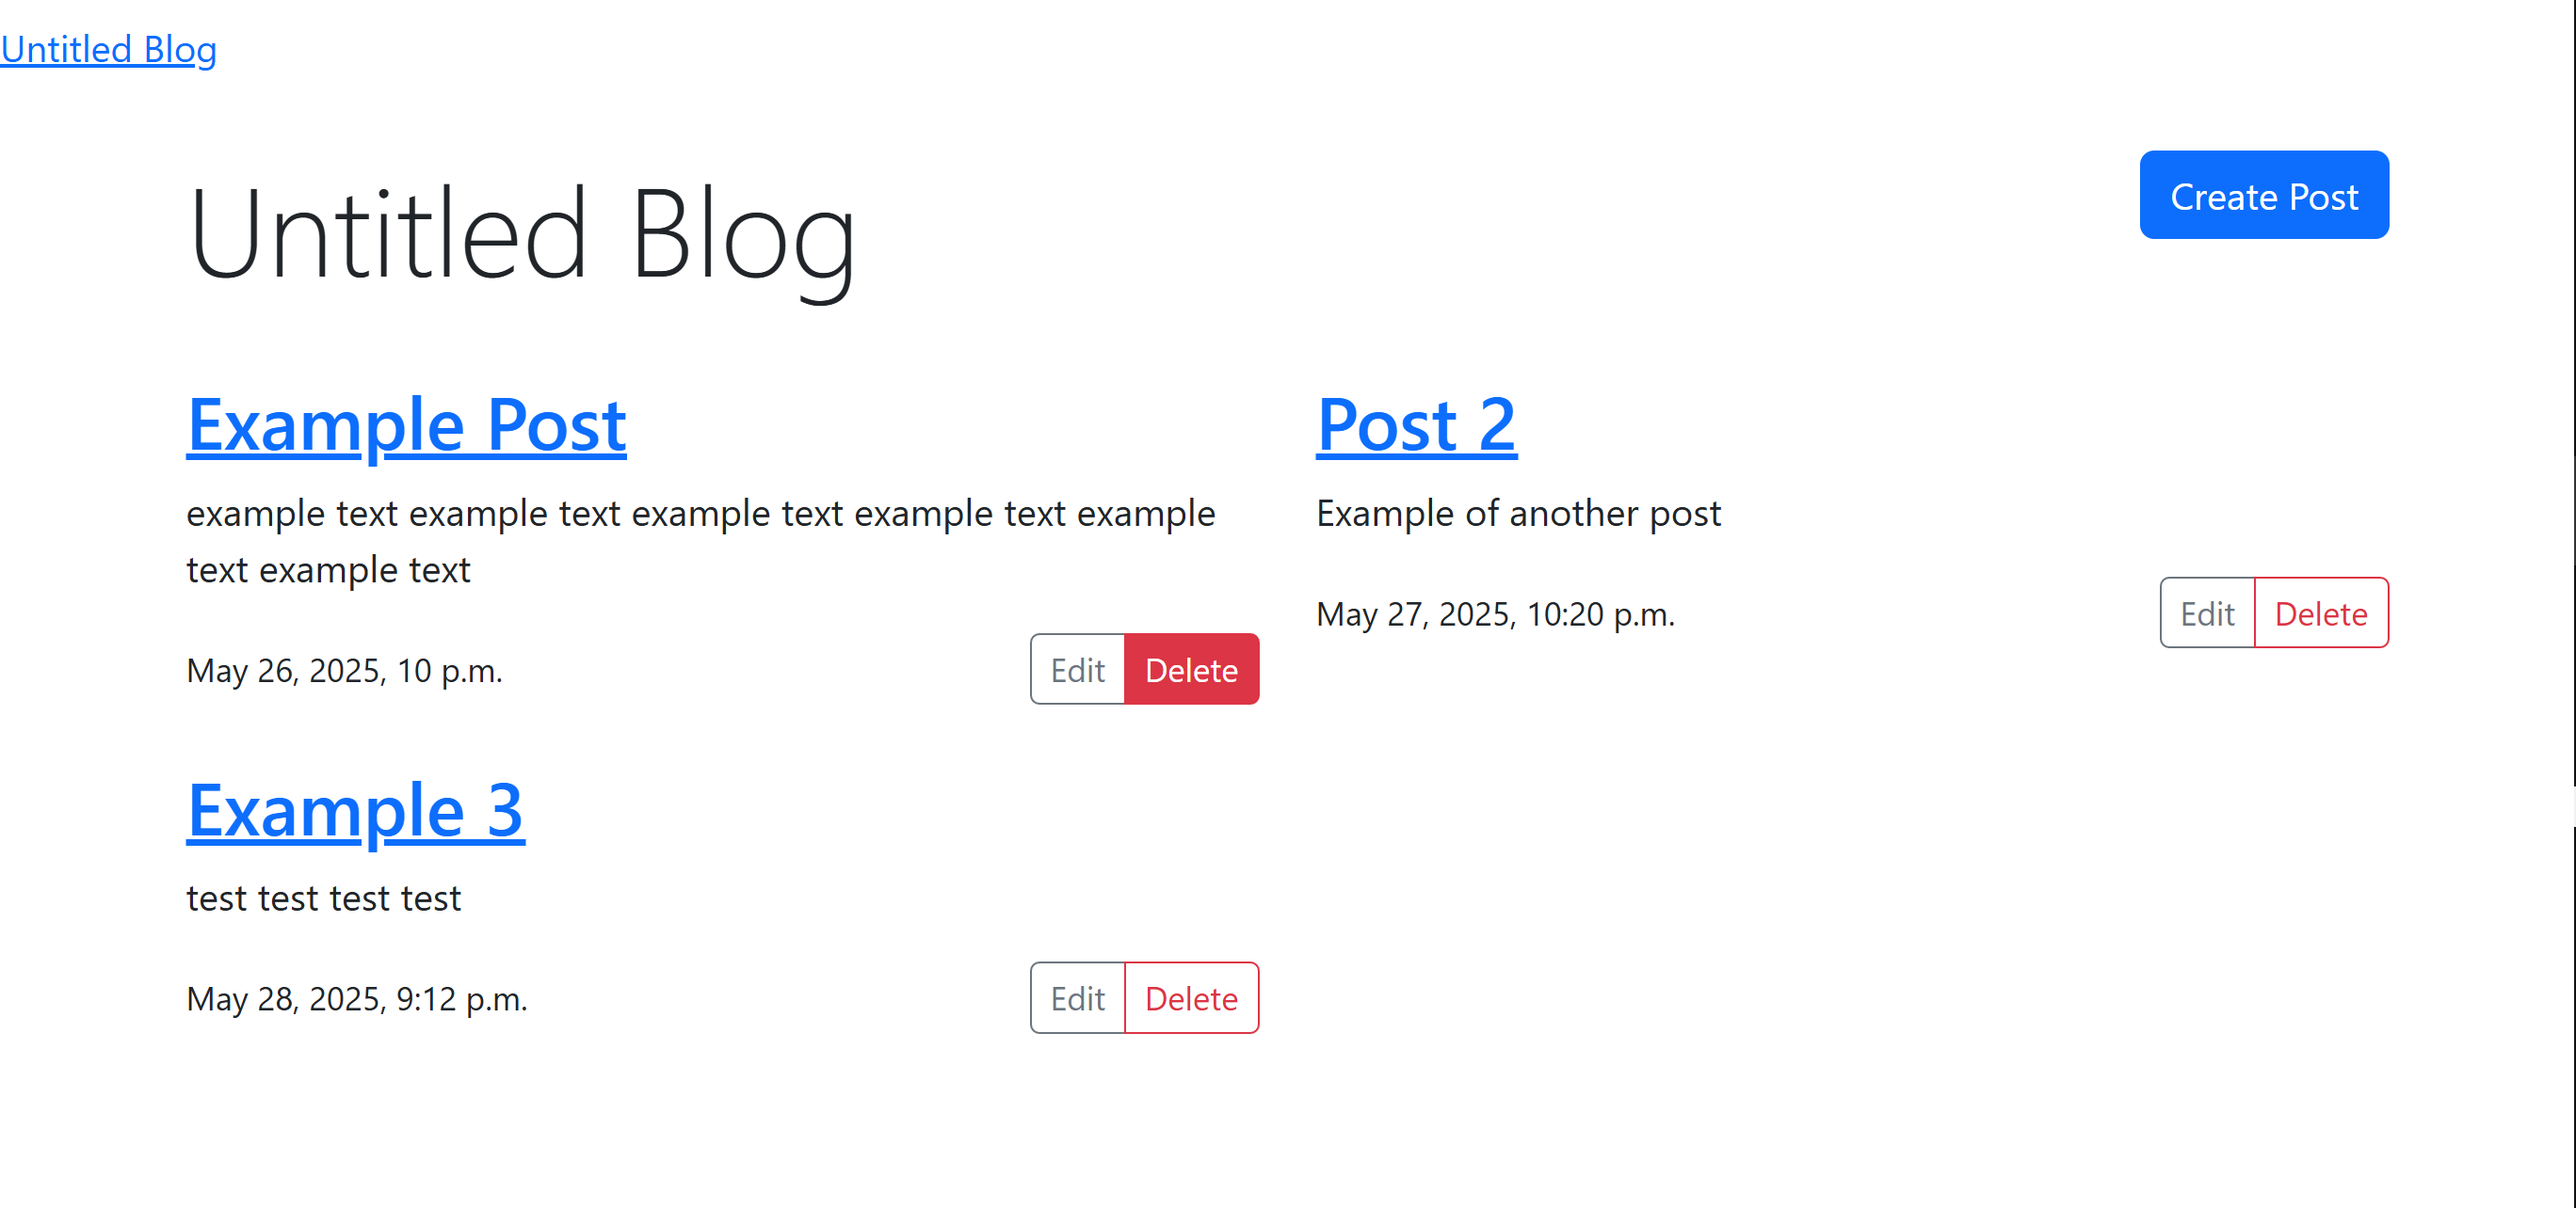
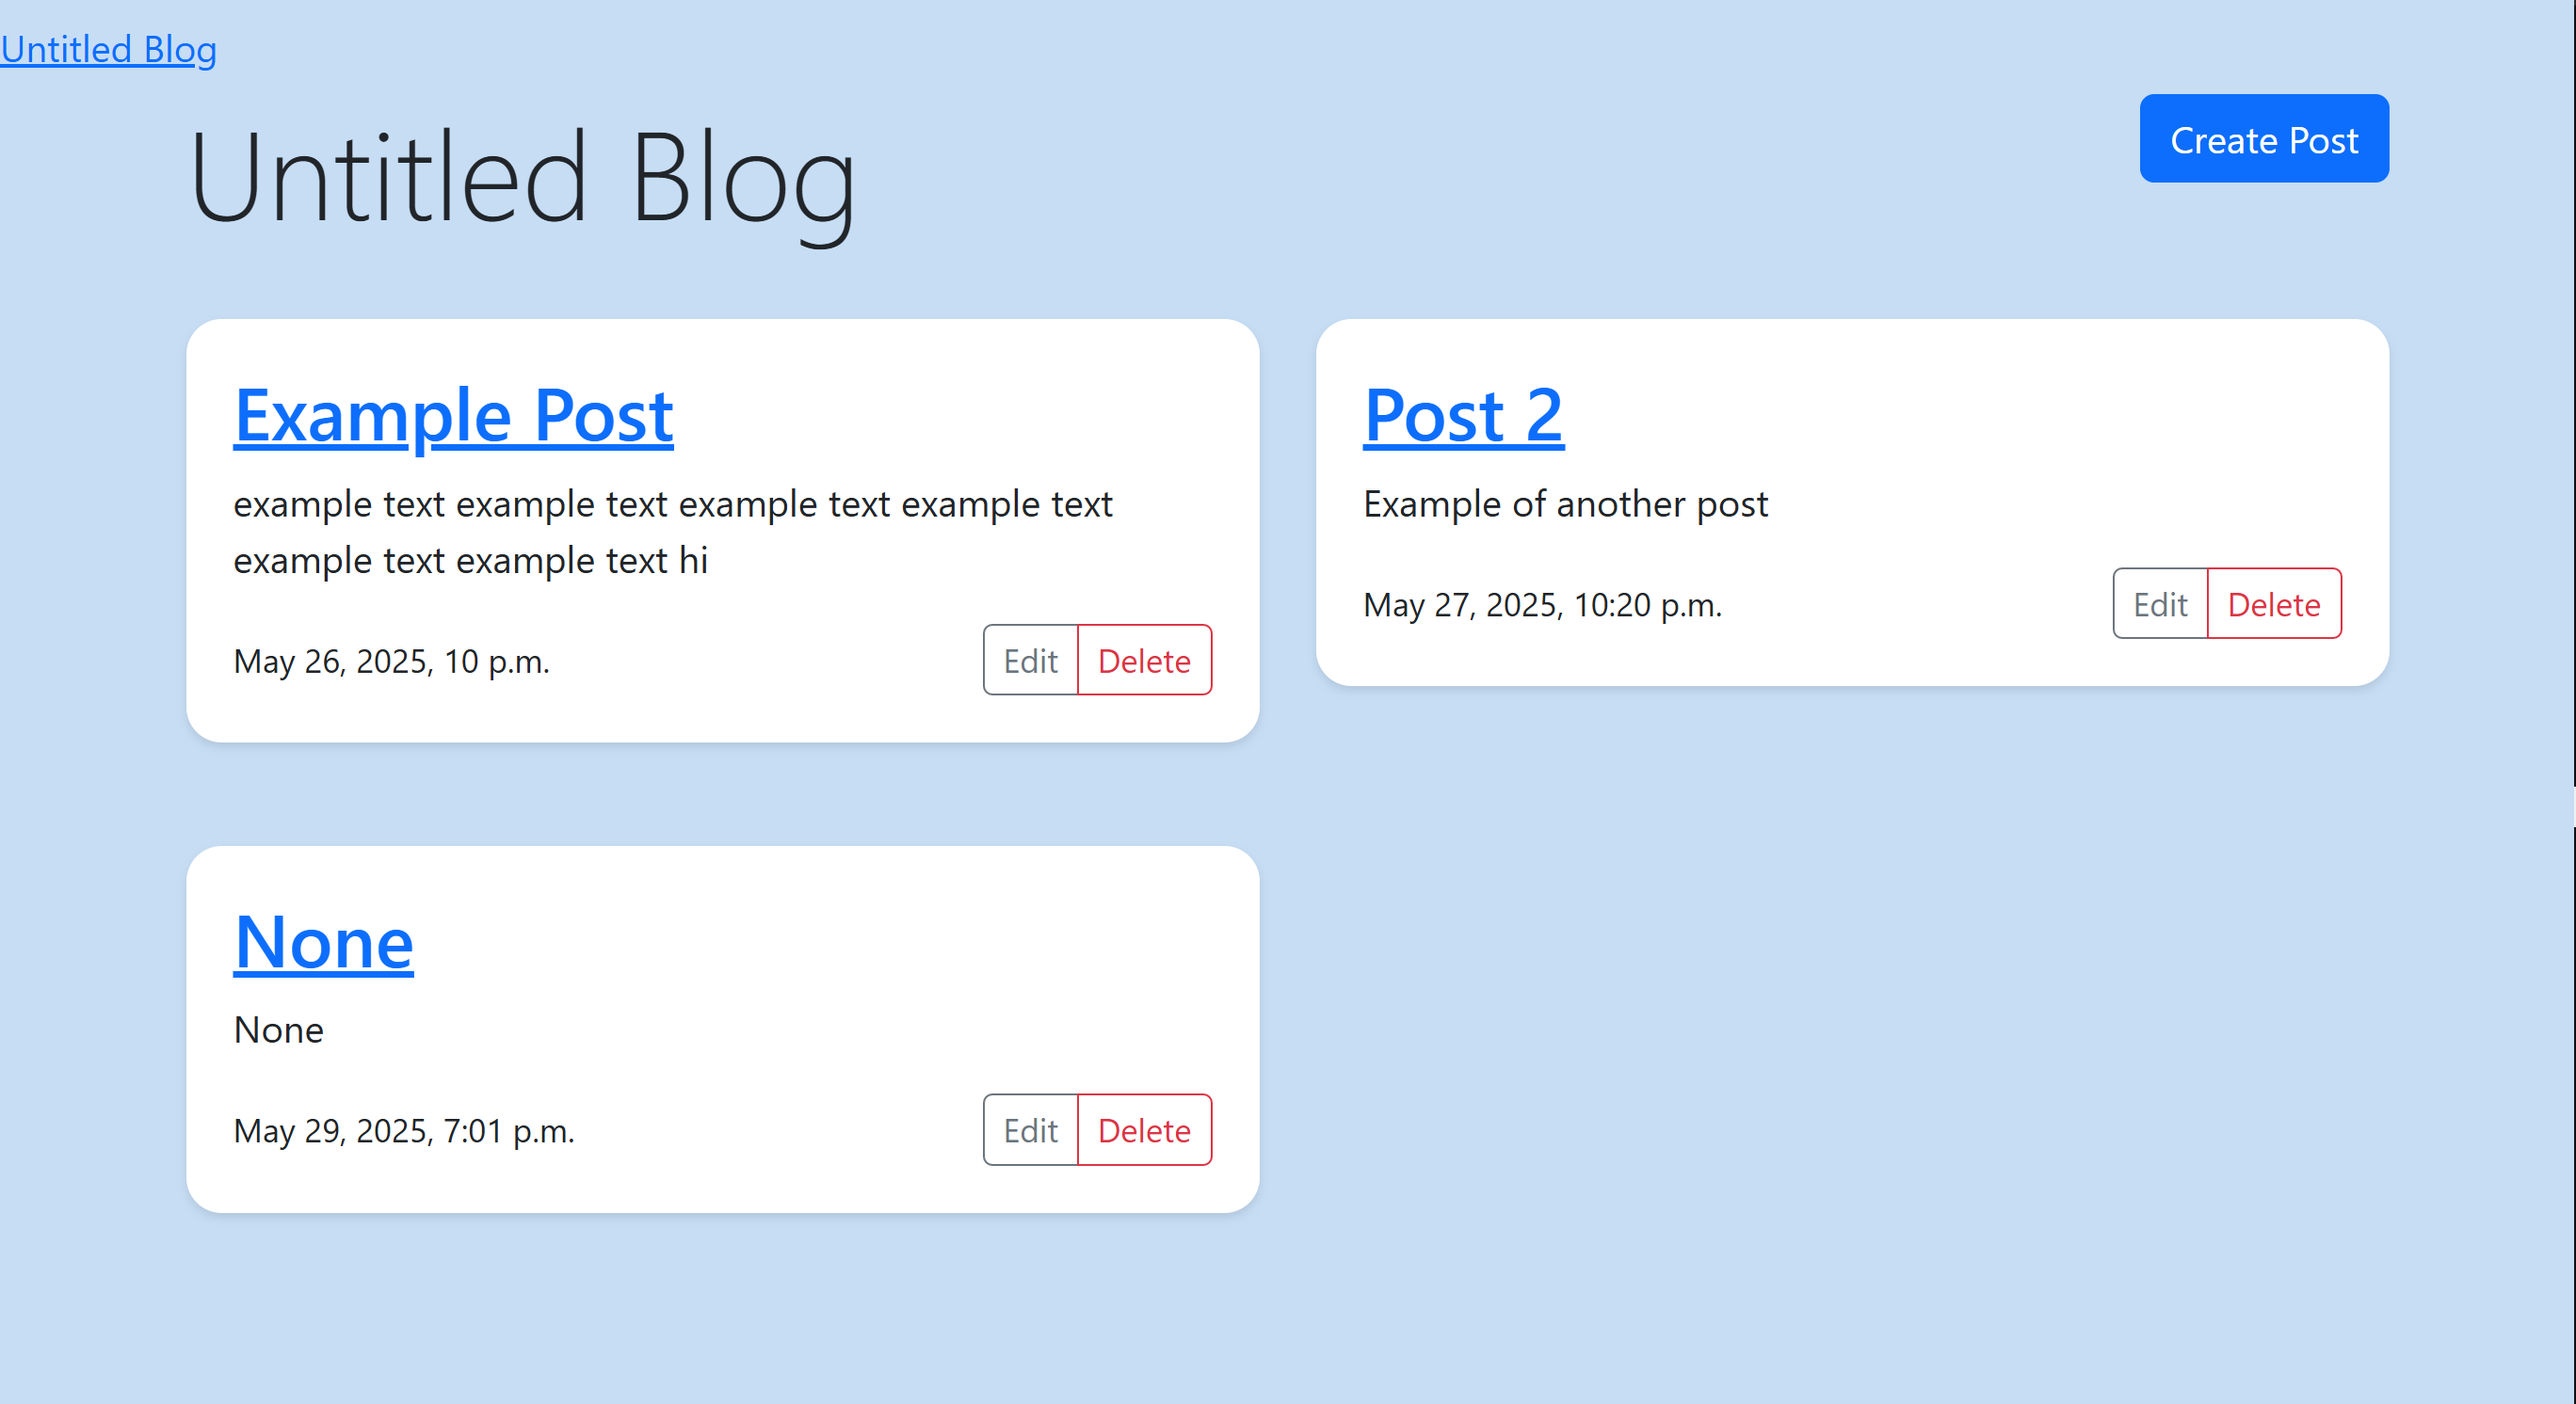
Implemented delete and edit page/ functionality, updated styling and updated screenshot

diff --git a/blog/templates/blog/post_form.html b/blog/templates/blog/post_form.html
@@ -1,0 +1,24 @@
+{% extends "blog/base.html" %}
+
+{% block content %}
+<div class="content section">
+    <h1 class="mb-4">New Post</h1>
+    <form method="post">
+        {% csrf_token %}
+        {% for field in form %}
+            <div class="mb-3">
+                <label for="{{ field.name.id_for_label}}">{{field.label}}</label>
+                {%if field.name == 'content' %}
+                    <textarea name="{{field.name}}" class="form-control">{{field.value}}</textarea>
+                {% else %}
+                    <input type="{{field.field.widget.input_type}}" name="{{field.name}}" value="{{field.value}}">
+                {% endif %}
+            </div>
+        {% endfor %}
+        <div>
+            <button type="submit" class="btn btn-primary">Save Post</button>
+            <a href="{% url 'home' %}" class="btn btn-secondary">Cancel</a>
+        </div>
+    </form>
+</div>
+{% endblock %}

diff --git a/blog/templates/blog/base.html b/blog/templates/blog/base.html
@@ -5,9 +5,21 @@
     <meta name="viewport" content="width=device-width, initial-scale=1.0">
     <link href="https://cdn.jsdelivr.net/npm/bootstrap@5.3.6/dist/css/bootstrap.min.css" rel="stylesheet" integrity="sha384-4Q6Gf2aSP4eDXB8Miphtr37CMZZQ5oXLH2yaXMJ2w8e2ZtHTl7GptT4jmndRuHDT" crossorigin="anonymous">
     <title>Untitled Blog</title>
+    <style>
+        body{
+            background-color: #c6ddf4;
+        }
+        .content-section {
+            background-color: #ffffff;
+            padding: 20px;
+            border-radius: 15px;
+            box-shadow: 0 2px 4px rgba(0, 0, 0, 0.1);
+            margin-bottom:20px
+        }
+    </style>
 </head>
 <body>
-        <nav class="navbar navbar-expand-lg mb-4">
+        <nav class="navbar navbar-expand-lg mb-8">
         <a href="{% url 'home' %}">Untitled Blog</a>
     </nav>
     <main class="container">

diff --git a/blog/templates/blog/post_delete.html b/blog/templates/blog/post_delete.html
@@ -1,0 +1,16 @@
+{% extends 'blog/base.html' %}
+
+{%block content%}
+<div class="content-section">
+    <h1>Delete Post</h1>
+    <div class="mb-3"></div>
+        <p>Are you sure you want to delete the post "{{ post.title }}"?</p>
+        <form method="post">
+        {%csrf_token%}
+        <button type="submit">Yes Delete</button>
+        <a href="{% url 'home'%}">Cancel</a>
+    </div>
+</div>
+
+{%endblock%}
+
